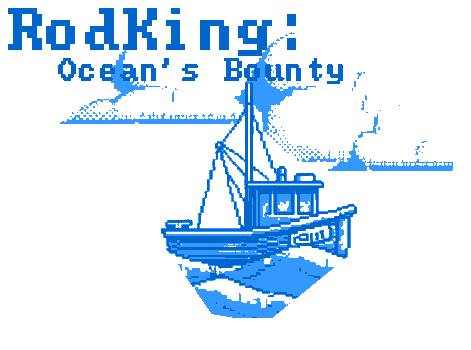
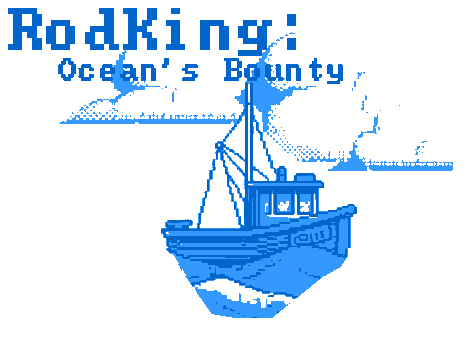
img update

diff --git a/fishingsim/rodmaster.html b/fishingsim/rodmaster.html
@@ -91,7 +91,7 @@
     </style>
 </head>
 <body>
-    <div class="logo"><img src="https://raw.githubusercontent.com/alternatebummer/games/main/fishingsim/headertest2.png" alt="Header Image"></div>
+    <div class="logo"><img src="https://raw.githubusercontent.com/alternatebummer/games/main/fishingsim/header.png" alt="Header Image"></div>
     <div id="info">
         <p id="clock">Time: 07:10 AM</p>
         <p id="location">Location: Fair Harbour</p>
